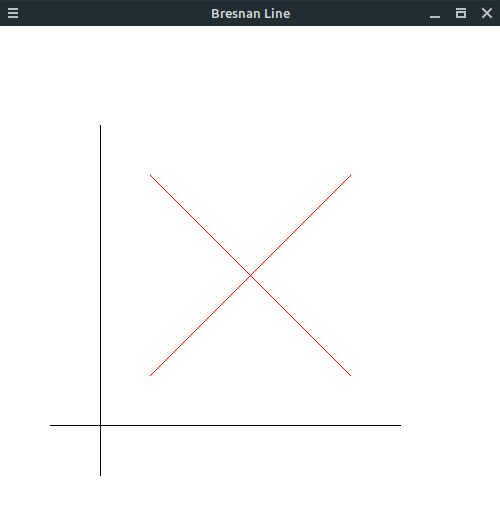
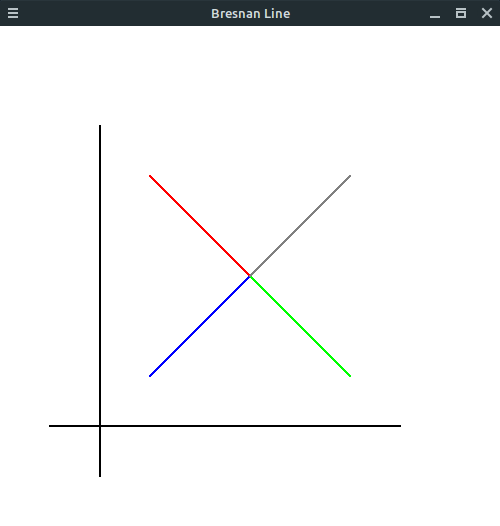
Updated code

diff --git a/Devansh/bresenham_line.c b/Devansh/bresenham_line.c
@@ -5,7 +5,7 @@
 void setPixel (int x, int y) {
     glBegin (GL_POINTS);
     glVertex2i (x, y);
-    glEnd ();
+	glEnd ();
 }
 
 void draw_line (int x1, int y1, int x2, int y2) {
@@ -69,15 +69,22 @@ void display () {
     draw_line (100, 50, 100, 400);
     glFlush ();
     glColor3f (1.0, 0.0, 0.0);
-    draw_line (150, 350, 350, 150);
+    draw_line (150, 350, 250, 250);
     glFlush ();
-    glColor3f (1.0, 0.0, 0.0);
-    draw_line (150, 150, 350, 350);
+    glColor3f (0.0, 1.0, 0.0);
+    draw_line (350, 150, 250, 250);
+    glFlush ();
+    glColor3f (0.0, 0.0, 1.0);
+    draw_line (150, 150, 250, 250);
+    glFlush ();
+    glColor3f (0.5, 0.5, 0.5);
+    draw_line (350, 350, 250, 250);
     glFlush ();
 }
 
 void myinit () {
     glClearColor (1.0, 1.0, 1.0, 1.0);
+	glPointSize(2);
     gluOrtho2D (0.0, 500.0, 0.0, 500.0);
 }
 
